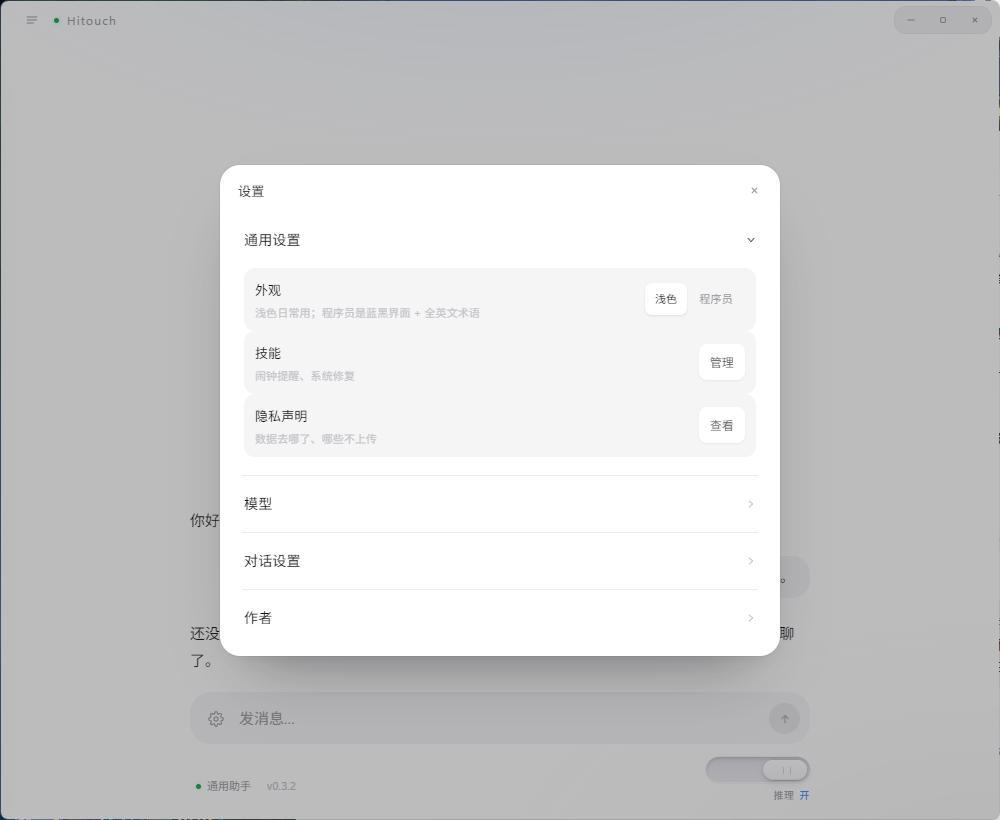
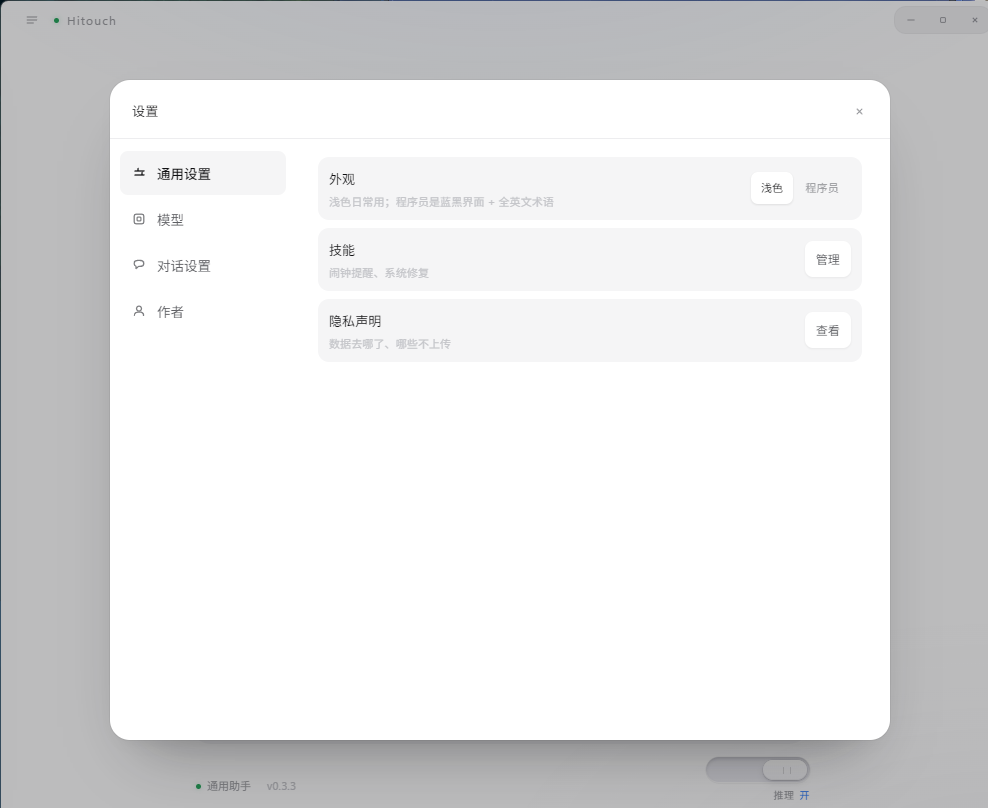
docs: 0.3.3 版本、下载链接、哈希与配图

diff --git a/docs/index.html b/docs/index.html
@@ -131,7 +131,7 @@
   <header class="bar">
     <span class="bar-mark" aria-hidden="true"></span>
     <span class="bar-name">Hitouch</span>
-    <span class="bar-r">v0.3.2 · Windows x64</span>
+    <span class="bar-r">v0.3.3 · Windows x64</span>
   </header>
 
   <section class="hero">
@@ -139,8 +139,8 @@
     <p class="lede">填自己的 API Key 就能对话。不注册、不登录，中间没有我的服务器——<b>聊天记录默认不保存</b>，关窗即清；想留再打开，用 Windows 自带的加密存在本机。</p>
 
     <div class="actions">
-      <a class="btn btn-solid" href="https://gitee.com/sunkuforgame/Hitouch/releases/download/v0.3.2/Hitouch-0.3.2-setup.exe">下载安装包<span class="mb">81.7 MB</span></a>
-      <a class="btn" href="https://gitee.com/sunkuforgame/Hitouch/releases/download/v0.3.2/Hitouch-0.3.2-portable.exe">免安装便携版<span class="mb">74.4 MB</span></a>
+      <a class="btn btn-solid" href="https://gitee.com/sunkuforgame/Hitouch/releases/download/v0.3.3/Hitouch-0.3.3-setup.exe">下载安装包<span class="mb">81.7 MB</span></a>
+      <a class="btn" href="https://gitee.com/sunkuforgame/Hitouch/releases/download/v0.3.3/Hitouch-0.3.3-portable.exe">免安装便携版<span class="mb">74.4 MB</span></a>
     </div>
     <p class="fineprint">Windows 10 / 11 · 64 位 · 两个版本功能完全一样，安装包会请求管理员权限</p>
     <p class="fineprint">你发出去的每句话都会交给 DeepSeek 处理；开联网搜索时，搜索词会交给搜索引擎。这两件我替代不了。</p>
@@ -165,7 +165,7 @@
   <section>
     <h2>能做什么</h2>
     <p class="prose">流式回答，随时停下、重新生成。内置通用助手、学习助教、编程搭子、翻译四套人设，也能自己写。可选联网搜索（默认关，回答里标来源）、可选本地记忆（默认关）。Markdown 表格和代码高亮，任意对话能一键导出成 Markdown 文件。</p>
-    <p class="prose">0.3.2 更新：右侧「深度思考」栏改成圆角浮动卡片，和界面里其他面板同一套圆角、边框与阴影；便携版现在也会请求管理员权限，和安装包一致。<br><br>0.3.1 更新：移除右上角的「关于」入口，技能与隐私声明移到 设置 → 通用设置；界面上只保留输入框左边的齿轮。<br><br>0.3.0 更新：设置面板改成四组折叠（一次只开一组）；新增「程序员」外观——全英文界面、蓝黑配色，右侧边栏实时记录模型的深度思考过程；上下文从固定 6 轮改成 6–200 轮滑轨（默认 40），长对话不再被截断。</p>
+    <p class="prose">0.3.3 更新：设置面板改成「左侧分类 + 右侧内容」，四个分类独立切换，弹窗加宽到 780px，选中项高亮，滚动条改成 10px 圆角细条；作者页补上「全部版本」入口和 MIT / Electron 33 / Windows x64 一行。<br><br>0.3.2 更新：右侧「深度思考」栏改成圆角浮动卡片，和界面里其他面板同一套圆角、边框与阴影；便携版也会请求管理员权限，和安装包一致。<br><br>0.3.1 更新：移除右上角的「关于」入口，技能与隐私声明移到 设置 → 通用设置；界面上只保留输入框左边的齿轮。<br><br>0.3.0 更新：设置面板改成四组折叠（一次只开一组）；新增「程序员」外观——全英文界面、蓝黑配色，右侧边栏实时记录模型的深度思考过程；上下文从固定 6 轮改成 6–200 轮滑轨（默认 40），长对话不再被截断。</p>
     <p class="prose">没有的：账号、云同步、插件市场、会员、每日额度。</p>
   </section>
 
@@ -182,10 +182,10 @@
     <details>
       <summary>两个文件的 SHA-256</summary>
       <div class="body">
-        <p class="hash" style="font-size:13px">Hitouch-0.3.2-setup.exe · 81,730,199 字节<br><code>2694d78f733415c540736ff39480ada603131d8551da477db4e32a54b49414bd</code></p>
-        <p class="hash" style="font-size:13px;margin-top:10px">Hitouch-0.3.2-portable.exe · 74,351,116 字节<br><code>6cae9c0eeb77924c1056fef58ba434d59869ad57ac3e84a15fb0a7a26748914c</code></p>
+        <p class="hash" style="font-size:13px">Hitouch-0.3.3-setup.exe · 81,731,515 字节<br><code>188d8a110ef3f5401c0e637790df56a9beb4ba13e9a6a025820273ac30e895ca</code></p>
+        <p class="hash" style="font-size:13px;margin-top:10px">Hitouch-0.3.3-portable.exe · 74,352,294 字节<br><code>22b38949285c5d8c08dfe3222cfae407e27b72213441e1024e4a1d1134d67070</code></p>
         <p style="margin-top:12px;font-size:13px;color:var(--ink-3)">自己算一遍：</p>
-        <pre>certutil -hashfile Hitouch-0.3.2-setup.exe SHA256</pre>
+        <pre>certutil -hashfile Hitouch-0.3.3-setup.exe SHA256</pre>
       </div>
     </details>
     <details>
@@ -209,7 +209,7 @@ npm run dist</pre>
   <footer>
     <a href="https://gitee.com/sunkuforgame/Hitouch">Gitee 仓库</a>
     <a href="https://gitee.com/sunkuforgame/Hitouch/releases">全部版本</a>
-    <a href="https://gitee.com/sunkuforgame/Hitouch/releases/download/v0.3.2/SHA256SUMS.txt">校验文件</a>
+    <a href="https://gitee.com/sunkuforgame/Hitouch/releases/download/v0.3.3/SHA256SUMS.txt">校验文件</a>
     <span>2026-11-08 更新</span>
     <span>MIT · Sun2530</span>
   </footer>

diff --git a/README.en.md b/README.en.md
@@ -92,8 +92,8 @@ Two builds, identical in function. Pick either.
 
 | File | Notes |
 | --- | --- |
-| `Hitouch-0.3.2-portable.exe` | Portable. Double-click to run, writes nothing to the registry, fits on a USB stick. |
-| `Hitouch-0.3.2-setup.exe` | Installer. Choose the install directory, creates Start menu and desktop shortcuts, uninstalls from Apps & features. |
+| `Hitouch-0.3.3-portable.exe` | Portable. Double-click to run, writes nothing to the registry, fits on a USB stick. |
+| `Hitouch-0.3.3-setup.exe` | Installer. Choose the install directory, creates Start menu and desktop shortcuts, uninstalls from Apps & features. |
 
 Get them from [Releases](https://github.com/Sun2530/Hitouch/releases). The size is large because the Electron runtime is bundled.
 
